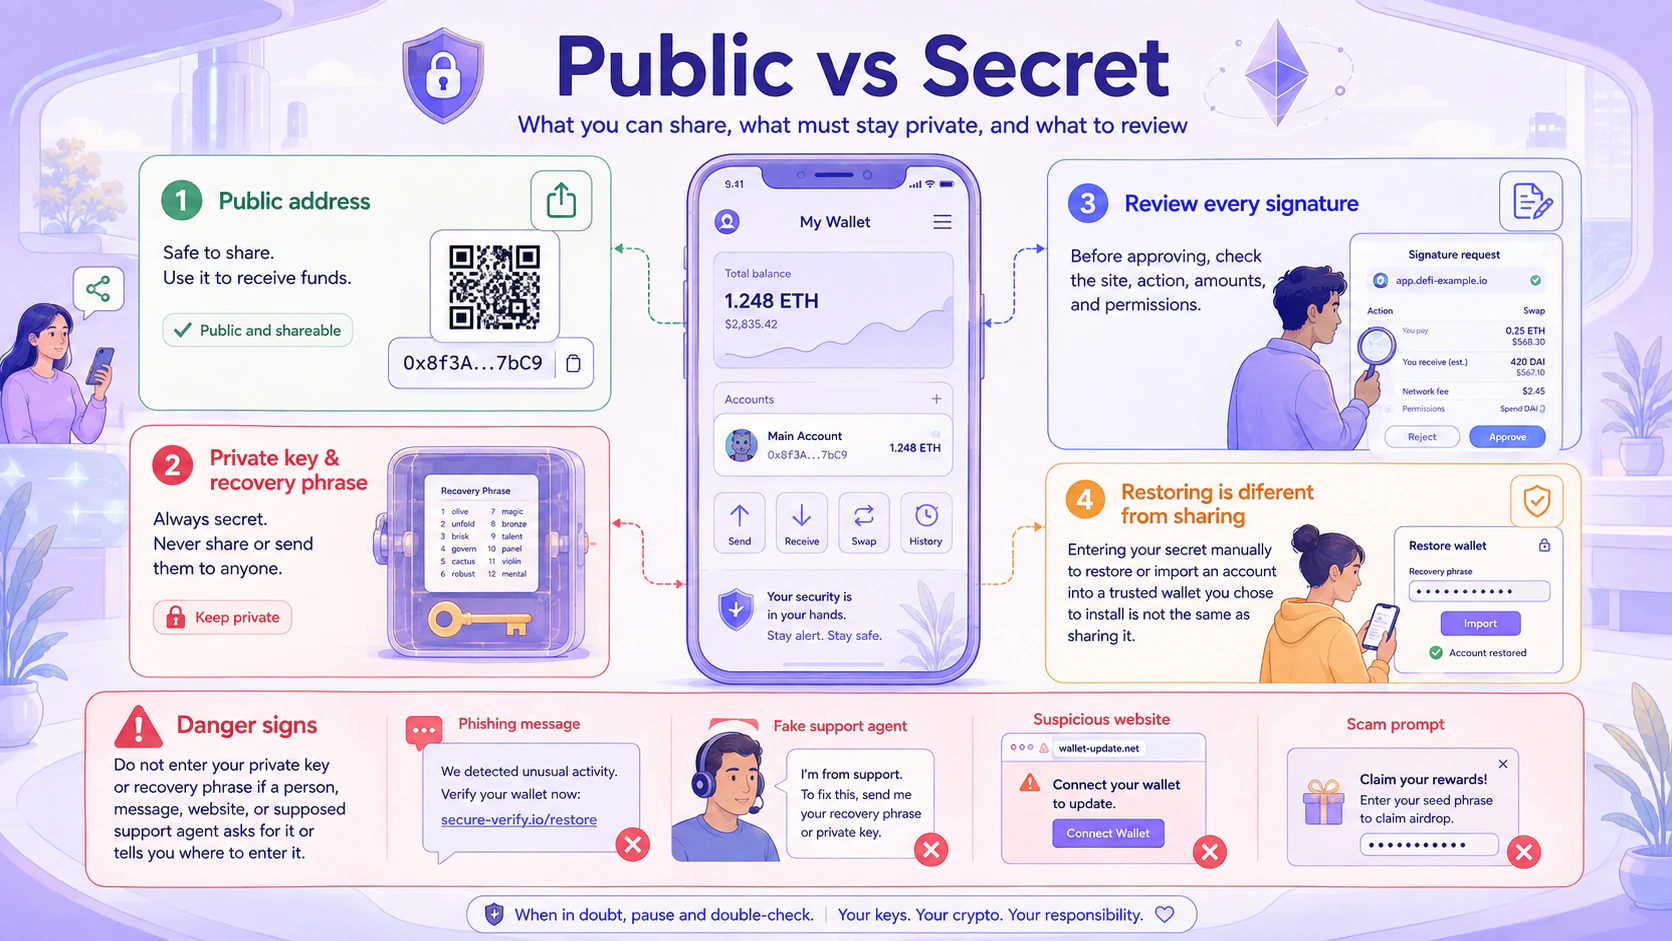
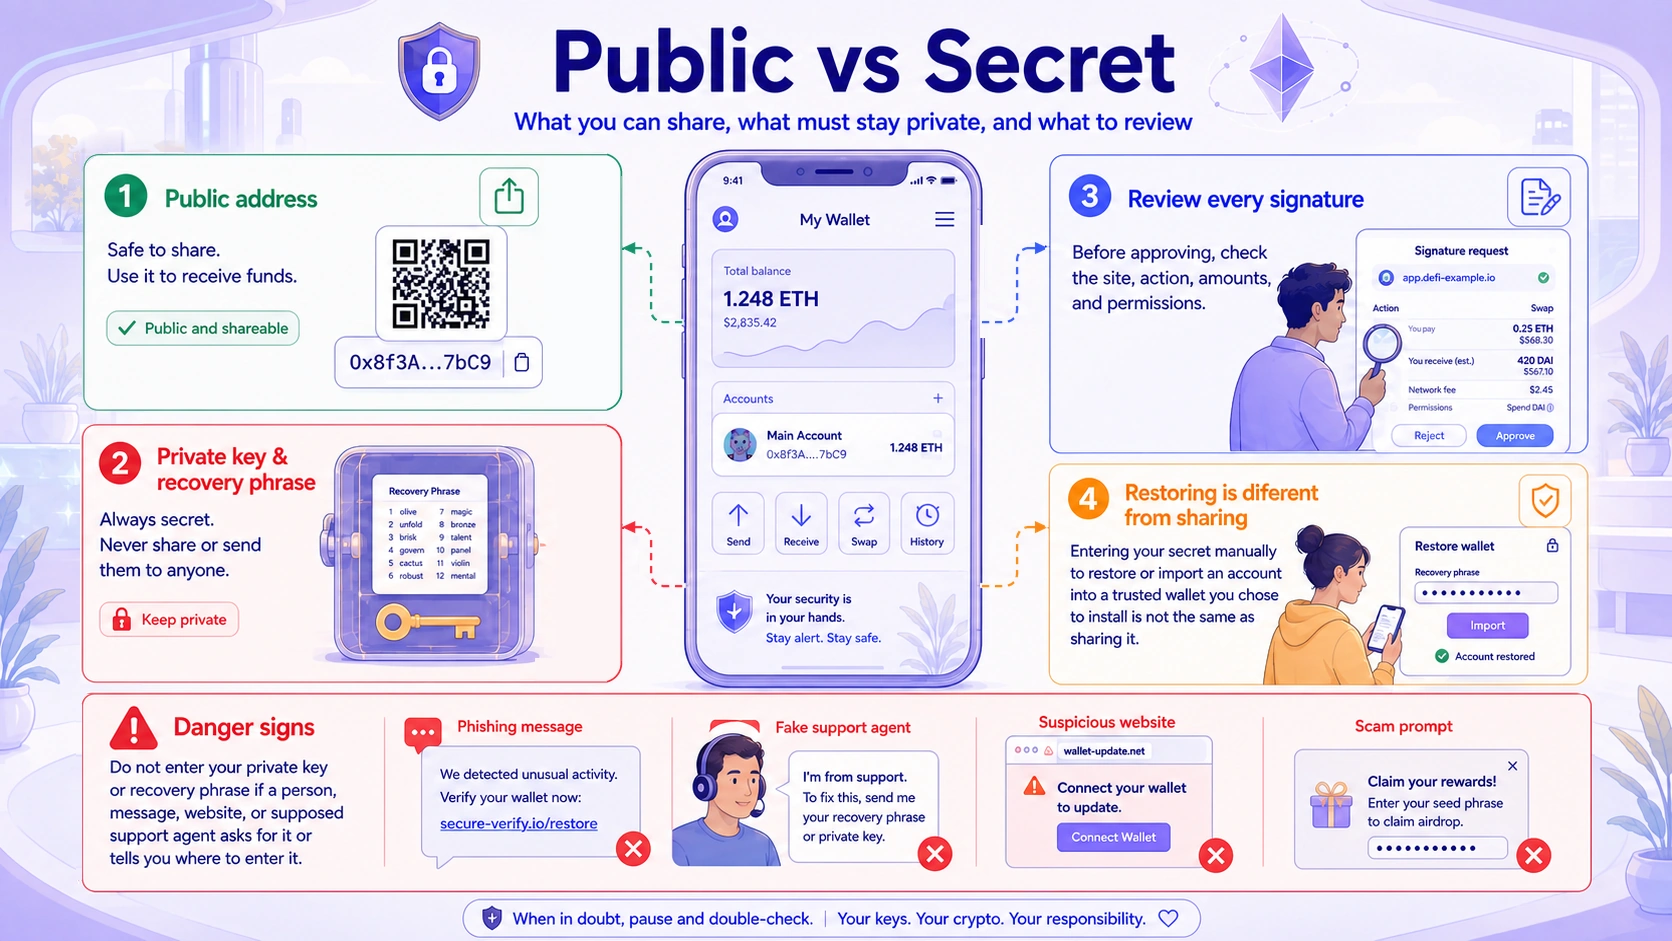
Delete old infographic asset

diff --git a/packages/nextjs/labs/ethereum-101-v2/assets/illustrations.tsx b/packages/nextjs/labs/ethereum-101-v2/assets/illustrations.tsx
@@ -33,7 +33,7 @@ export const CustodyComparison = makeIllustration({
 
 // Ch4 · What's safe to share — a high-detail wallet safety infographic.
 export const WalletSafetyInfographic = makeIllustration({
-  src: "/wallet-safety-infographic-ch4-5-balanced-v14.webp",
+  src: "/wallet-safety-infographic-ch4-5.webp",
   width: 1672,
   height: 941,
   unoptimized: true,
